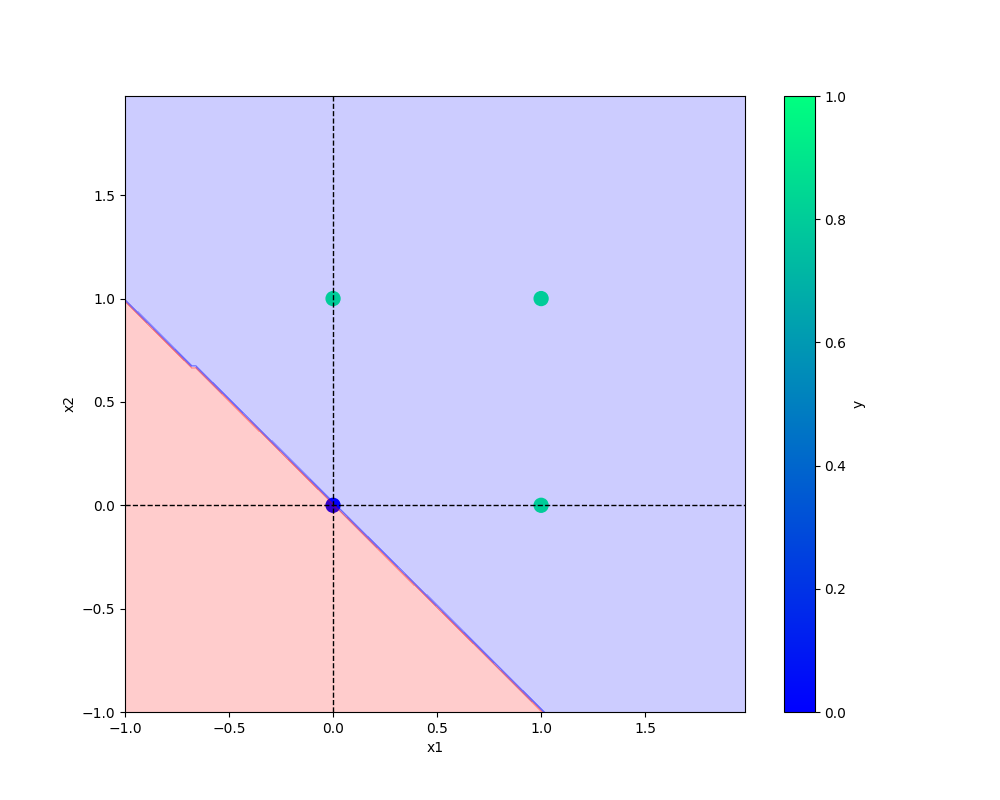
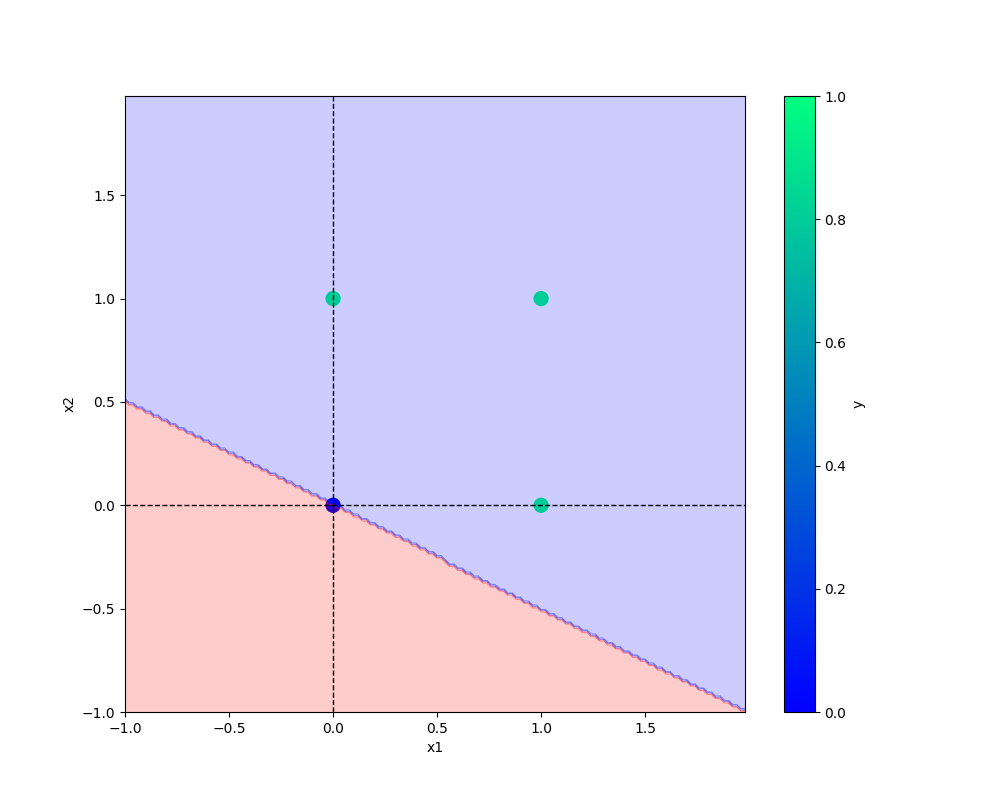
logging added and progress bar done

Changed region(s): [[0.341, 0.625, 0.744, 0.9062], [0.124, 0.375, 0.341, 0.625]]

diff --git a/utils/all_utils.py b/utils/all_utils.py
@@ -4,8 +4,19 @@ import joblib
 import matplotlib.pyplot as plt
 from matplotlib.colors import ListedColormap
 import os
+import logging
 
 def prepare_data(df):
+  """it is used to separate the dependent and independent features
+
+  Args:
+      df (pd.DataFrame): its the pandas DataFrame to
+
+  Returns:
+      tuple: its returns the tuple of the dependent and independent variable
+  """
+  logging.info("preparing the data by segregating the dependent and independent variable")
+  
   X = df.drop("y", axis= 1)
 
   y= df["y"]
@@ -14,15 +25,31 @@ def prepare_data(df):
 
 
 def save_model(model, filename):
+  """This saves the trained model
+
+  Args:
+      model (python object): trained model to save
+      filename (str): path to save the trained model
+  """
+  logging.info("saving the trained model")
+  
   model_dir = "models"
   os.makedirs(model_dir, exist_ok= True) # ONLY CREATED IF MODEL_DIR DOSEN'T EXITS
   filePath = os.path.join(model_dir, filename) # model/filename
   joblib.dump(model, filePath)
-  
-  
+  logging.info(f"saved the trained model{filePath}")  
   
 def save_plot(df, file_name, model):
+  """its saves the plot of trained model
+
+  Args:
+      df (dataFrame): _description_
+      file_name (_type_): path to save the plot
+      model : trained model
+  """
+   
   def _create_base_plot(df):
+    logging.info("creating base plot of trained model")
     df.plot(kind = "scatter", x= "x1", y= "x2", c= "y", s= 100, cmap= "winter")
     plt.axhline(y= 0, color= "black", linestyle= "--", linewidth= 1)
     plt.axvline(x= 0, color= "black", linestyle= "--", linewidth= 1)
@@ -30,6 +57,7 @@ def save_plot(df, file_name, model):
     figure.set_size_inches(10,8)
 
   def _plot_decision_regions(X, y, classfier, resolution = 0.02):
+    logging.info("ploting the decision regions")
     colors = ("red", "blue", "gray", "cyan")
     cmap = ListedColormap(colors[:len(np.unique(y))])
 
@@ -41,8 +69,6 @@ def save_plot(df, file_name, model):
 
     xx1, xx2 = np.meshgrid(np.arange(x1_min, x1_max, resolution),
                            np.arange(x2_min, x2_max, resolution))
-    print(xx1)
-    print(xx1.ravel())
     
     Z= classfier.predict(np.array([xx1.ravel(), xx2.ravel()]).T)
     Z= Z.reshape(xx1.shape)
@@ -61,3 +87,5 @@ def save_plot(df, file_name, model):
   os.makedirs(plot_dir, exist_ok= True) # ONLY CREATED IF MODEL_DIR DOSEN'T EXITS
   plotPath = os.path.join(plot_dir, file_name) # model/filename
   plt.savefig(plotPath)
+  logging.info(f"saving the plot at {plotPath}")
+  

diff --git a/utils/model.py b/utils/model.py
@@ -4,13 +4,14 @@ import joblib
 import matplotlib.pyplot as plt
 from matplotlib.colors import ListedColormap
 import os
-
+import logging
+from tqdm import tqdm
 
 
 class Perceptron:
   def __init__(self, eta, epochs):
     self.weights = np.random.randn(3) * 1e-4
-    print(f"initial weights before traning: \n{self.weights}")
+    logging.info(f"initial weights before traning: \n{self.weights}")
     self.eta = eta
     self.epochs = epochs
 
@@ -21,28 +22,30 @@ class Perceptron:
   def fit(self, X, y):
     self.X = X
     self.y= y
-
-    X_with_bias = np.c_[X, -np.ones((len(self.X), 1))]  # CONCATINATION
-    print(f"X_with_bias: \n{X_with_bias}")
-
-    for epoch in range(self.epochs):
-      print("--"*10)
-      print(f"for epoch: {epoch}")
-      print("--"*10)
+    
+    X_with_bias = np.c_[self.X, -np.ones((len(self.X), 1))]  # CONCATINATION
+    logging.info(f"X_with_bias: \n{X_with_bias}")
+    
+    for epoch in tqdm(range(self.epochs), total=self.epochs, desc= "training the model"):
+      logging.info("--"*10)
+      logging.info(f"for epoch: {epoch}")
+      logging.info("--"*10)
 
       y_hat = self.activationFunction(X_with_bias, self.weights) # FORWARD PROPAGATION
-      print(f"predected value after forword pass: \n{y_hat}")
+      logging.info(f"predicted value after forword pass: \n{y_hat}")
       self.error = self.y - y_hat
-      print(f"error: \n{self.error}")
+      logging.info(f"error: \n{self.error}")
       self.weights = self.weights + self.eta * np.dot(X_with_bias.T, self.error) # BACKWARD PROPAGATION
-      print(f"updated weights after epoch:{epoch}/{self.epochs} : \n{self.weights}")
-      print("#####"*10)
+      logging.info(f"updated weights after epoch:\n{epoch}/{self.epochs} : \n{self.weights}")
+      logging.info("#####"*10)
+      
 
   def predict(self, X):
-    X_with_bias = np.c_[X, -np.ones(((len(X), 1)))]
+    X_with_bias = np.c_[X, -np.ones((len(X), 1))]
     return self.activationFunction(X_with_bias, self.weights)
 
   def total_loss(self):
     total_loss = np.sum(self.error)
-    print(f"total loss: {total_loss}")
+    logging.info(f"total loss: {total_loss}")
     return total_loss
+  

diff --git a/or.py b/or.py
@@ -1,36 +1,38 @@
 from utils.model import Perceptron
+from utils.all_utils import prepare_data, save_plot, save_model
 import pandas as pd
-from utils.all_utils import prepare_data, save_model, save_plot
+import logging
+import os
+
+logging_str = "[%(asctime)s: %(levelname)s: %(module)s] %(message)s"
+log_dir = "logs"
+os.makedirs(log_dir, exist_ok=True)
+logging.basicConfig(filename= os.path.join(log_dir,"running_logs.log"),level=logging.INFO, format=logging_str, filemode="a")
 
 
-def main(data, eta, epochs, filename, plotFileName):
-    
+def main(data, modelName, plotName, eta, epochs):
     df = pd.DataFrame(data)
-    print(df)
-
+    logging.info(f"This is actual dataframe{df}")
     X, y = prepare_data(df)
+    model = Perceptron(eta=eta, epochs=epochs)
+    model.fit(X, y)
+    _ = model.total_loss()
+    save_model(model, filename=modelName)
+    save_plot(df, plotName, model)
 
-    ETA = 0.3 # 0 and 1
-    EPOCHS = 10
 
-    model_OR= Perceptron(eta = eta, epochs= epochs)
-
-    model_OR.fit(X, y)
-
-    _ = model_OR.total_loss()
-
-    save_model(model_OR, filename= filename)
-    save_plot(df, plotFileName, model_OR)
-    
-if __name__ == "__main__":
-    
+if __name__ == '__main__':
     OR = {
-    "x1": [0, 0, 1, 1],
-    "x2": [0, 1, 0, 1],
-    "y": [0, 1, 1, 1]
+        "x1": [0,0,1,1],
+        "x2": [0,1,0,1],
+        "y": [0,1,1,1],
     }
-    
     ETA = 0.3 # 0 and 1
-    EPOCHS = 10
-        
-    main(data= OR, eta=ETA, epochs=EPOCHS, filename= "or.model", plotFileName= "or.png")
+    EPOCHS = 100
+    try:
+        logging.info(">>>>> starting training >>>>>")
+        main(data=OR, modelName="or.model", plotName="or.png", eta=ETA, epochs=EPOCHS)
+        logging.info("<<<<< training done successfully<<<<<\n")
+    except Exception as e:
+        logging.exception(e)
+        raise e

diff --git a/and.py b/and.py
@@ -1,26 +1,29 @@
 from utils.model import Perceptron
 import pandas as pd
 from utils.all_utils import prepare_data, save_model, save_plot
+import logging
 
 
-def main(data, eta, epochs, filename, plotFileName):
+logging_str = "[%(asctime)s: %(levelname)s: %(module)s:] %(massage)s"
+logging.basicConfig(level=logging.INFO, format=logging_str)
 
+def main(data, modelName, plotName, eta, epochs):
     df = pd.DataFrame(data)
-    print(df)
+    logging.info(f"This is actual dataFrame{df}")
 
     X, y = prepare_data(df)
 
-    model_AND= Perceptron(eta = eta, epochs= epochs)
-    model_AND.fit(X, y)
+    model= Perceptron(eta = eta, epochs= epochs)
+    model.fit(X, y)
 
-    _ = model_AND.total_loss() #dummy variable
+    _ = model.total_loss() #dummy variable
 
-    save_model(model_AND, filename= filename)
-    save_plot(df, plotFileName, model_AND)
+    save_model(model, filename= modelName)
+    save_plot(df, plotName, model)
     
     
-if __name__ == "__main__": # entry point
-    
+if __name__ == "__main__":  # entry point
+        
     AND = {
         "x1": [0, 0, 1, 1],
         "x2": [0, 1, 0, 1],
@@ -30,4 +33,4 @@ if __name__ == "__main__": # entry point
     ETA = 0.3 # 0 and 1
     EPOCHS = 10
     
-    main(data= AND, eta=ETA, epochs=EPOCHS, filename= "and.model", plotFileName= "and.png")
+    main(data= AND, modelName="and.model", plotName="and.png", eta=ETA, epochs=EPOCHS)
